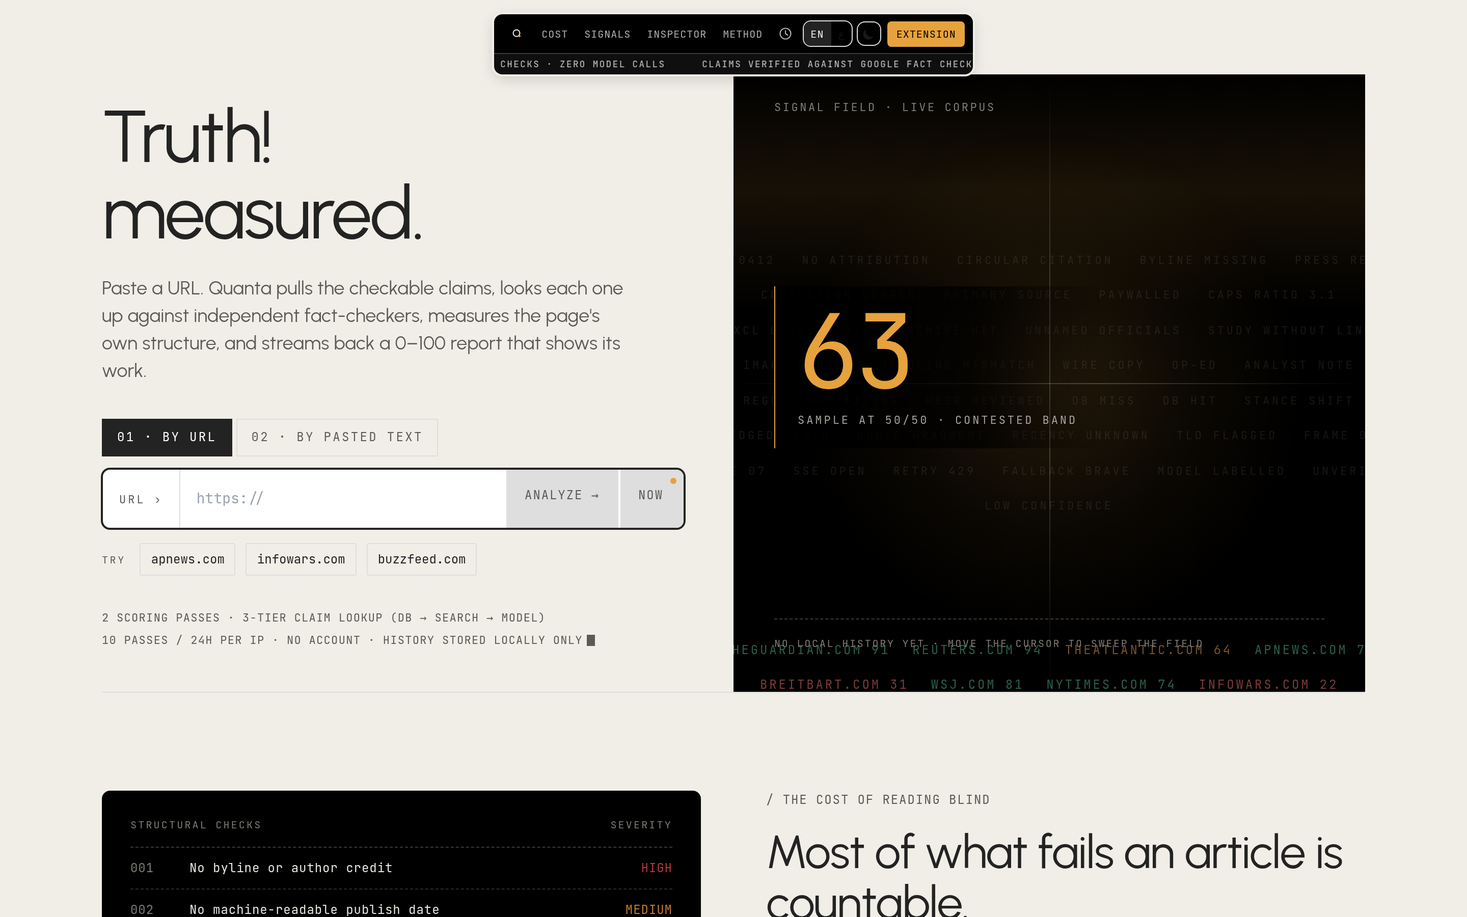
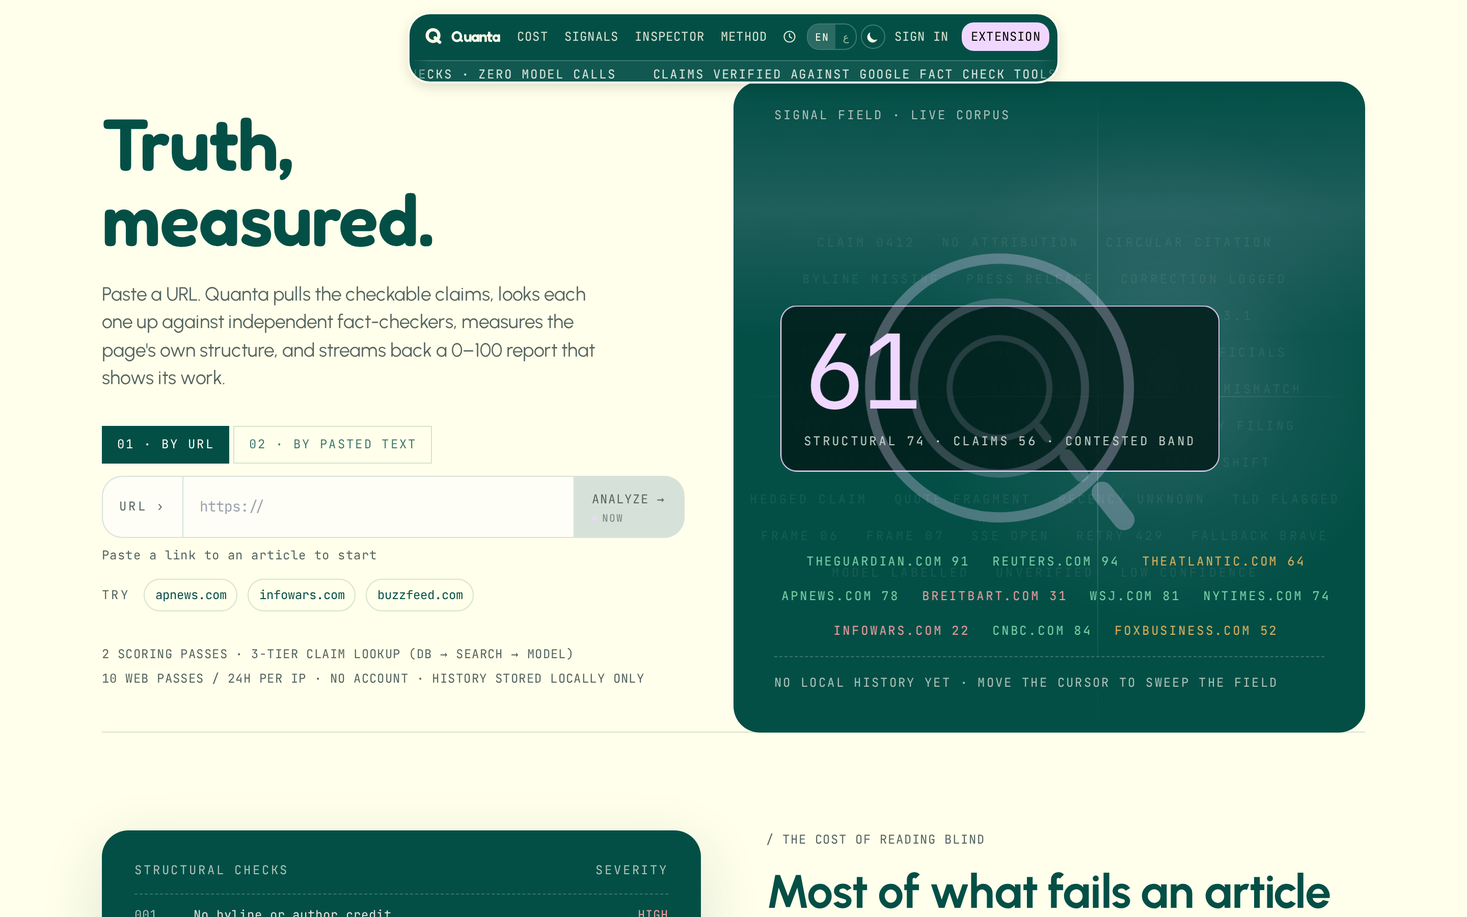
Fix the account dropdown, add profile settings, refresh the README
The nav's account menu rendered but was invisible: the pill's rounded
corners need overflow:hidden and the row needs overflow-x:auto for mobile
scrolling, and either one alone clips a popover that pops out past the
pill's own small height. Portals it to document.body instead, positioned
from the button's own bounding rect, which sidesteps both ancestors
instead of fighting them.

/account grows from a bare billing page into Billing / Preferences
(language) / Session (sign out), plus a member-since line.

The README still described the pre-accounts, pre-rebrand app — no auth,
no persistence, the old near-black palette. Brings it up to date with
the real Supabase + Lemon Squeezy stack, a regenerated hero screenshot,
and a corrected test count.

diff --git a/app/account/account-view.tsx b/app/account/account-view.tsx
@@ -1,15 +1,38 @@
 'use client'
 
 import { useState } from 'react'
+import { useTranslation } from '@/lib/i18n'
 
 interface AccountViewProps {
   email: string
   tier: 'free' | 'paid'
   subscriptionStatus: string | null
   renewsAt: string | null
+  createdAt: string
 }
 
-export function AccountView({ email, tier, subscriptionStatus, renewsAt }: AccountViewProps) {
+function Card({ label, children }: { label: string; children: React.ReactNode }) {
+  return (
+    <div style={{ border: '1px solid var(--ink)', background: 'var(--white)', marginTop: 24 }}>
+      <div style={{ padding: '12px 22px', borderBottom: '1px solid var(--ghost)' }}>
+        <span className="mono" style={{ fontSize: 10, letterSpacing: '0.16em', textTransform: 'uppercase', color: 'var(--grey)' }}>{label}</span>
+      </div>
+      {children}
+    </div>
+  )
+}
+
+function Row({ label, value }: { label: string; value: React.ReactNode }) {
+  return (
+    <div style={{ padding: '18px 22px', borderBottom: '1px solid var(--ghost)', display: 'flex', justifyContent: 'space-between', alignItems: 'baseline', gap: 16 }}>
+      <span className="mono" style={{ fontSize: 10, letterSpacing: '0.14em', textTransform: 'uppercase', color: 'var(--grey)', flexShrink: 0 }}>{label}</span>
+      <span style={{ fontSize: 14, color: 'var(--ink)', textAlign: 'right' }}>{value}</span>
+    </div>
+  )
+}
+
+export function AccountView({ email, tier, subscriptionStatus, renewsAt, createdAt }: AccountViewProps) {
+  const { language, setLanguage } = useTranslation()
   const [busy, setBusy] = useState(false)
 
   const upgrade = async () => {
@@ -34,27 +57,22 @@ export function AccountView({ email, tier, subscriptionStatus, renewsAt }: Accou
         <div style={{ fontFamily: 'var(--mono)', fontSize: 11, letterSpacing: '0.16em', textTransform: 'uppercase', color: 'var(--grey)', marginBottom: 8 }}>
           Account
         </div>
-        <h1 style={{ fontFamily: 'var(--sans)', fontWeight: 400, fontSize: 32, margin: '0 0 28px', color: 'var(--ink)' }}>
+        <h1 style={{ fontFamily: 'var(--sans)', fontWeight: 400, fontSize: 32, margin: '0 0 4px', color: 'var(--ink)', wordBreak: 'break-all' }}>
           {email}
         </h1>
+        <div className="mono" style={{ fontSize: 12, color: 'var(--grey)' }}>
+          Member since {new Date(createdAt).toLocaleDateString(undefined, { year: 'numeric', month: 'long' })}
+        </div>
 
-        <div style={{ border: '1px solid var(--ink)', background: 'var(--white)' }}>
-          <div style={{ padding: '18px 22px', borderBottom: '1px solid var(--ghost)', display: 'flex', justifyContent: 'space-between', alignItems: 'baseline' }}>
-            <span className="mono" style={{ fontSize: 10, letterSpacing: '0.14em', textTransform: 'uppercase', color: 'var(--grey)' }}>Plan</span>
+        <Card label="Billing">
+          <Row label="Plan" value={
             <span className="mono" style={{ fontSize: 14, letterSpacing: '0.08em', textTransform: 'uppercase', color: tier === 'paid' ? 'var(--verified)' : 'var(--ink)' }}>
               {tier === 'paid' ? 'Paid' : 'Free'}
             </span>
-          </div>
-
+          } />
           {tier === 'paid' && subscriptionStatus && (
-            <div style={{ padding: '18px 22px', borderBottom: '1px solid var(--ghost)', display: 'flex', justifyContent: 'space-between', alignItems: 'baseline' }}>
-              <span className="mono" style={{ fontSize: 10, letterSpacing: '0.14em', textTransform: 'uppercase', color: 'var(--grey)' }}>Status</span>
-              <span style={{ fontSize: 14, color: 'var(--ink)' }}>
-                {subscriptionStatus}{renewsAt ? ` · renews ${new Date(renewsAt).toLocaleDateString()}` : ''}
-              </span>
-            </div>
+            <Row label="Status" value={`${subscriptionStatus}${renewsAt ? ` · renews ${new Date(renewsAt).toLocaleDateString()}` : ''}`} />
           )}
-
           <div style={{ padding: 22 }}>
             {tier === 'paid' ? (
               <button
@@ -76,9 +94,46 @@ export function AccountView({ email, tier, subscriptionStatus, renewsAt }: Accou
               </button>
             )}
           </div>
-        </div>
+        </Card>
 
-        <a href="/" style={{ display: 'inline-block', marginTop: 20, fontFamily: 'var(--mono)', fontSize: 11, letterSpacing: '0.1em', textTransform: 'uppercase', color: 'var(--grey)' }}>
+        <Card label="Preferences">
+          <div style={{ padding: 22, display: 'flex', justifyContent: 'space-between', alignItems: 'center' }}>
+            <span className="mono" style={{ fontSize: 10, letterSpacing: '0.14em', textTransform: 'uppercase', color: 'var(--grey)' }}>Language</span>
+            <div style={{ display: 'inline-flex', border: '1px solid var(--ghost)', borderRadius: 8, overflow: 'hidden' }}>
+              {(['en', 'ar'] as const).map(code => (
+                <button
+                  key={code}
+                  onClick={() => setLanguage(code)}
+                  aria-pressed={language === code}
+                  className="mono"
+                  style={{
+                    padding: '8px 14px', fontSize: 12, letterSpacing: '0.06em', cursor: 'pointer', border: 0,
+                    background: language === code ? 'var(--ink)' : 'transparent',
+                    color: language === code ? 'var(--paper)' : 'var(--ink)',
+                  }}
+                >
+                  {code === 'en' ? 'English' : 'العربية'}
+                </button>
+              ))}
+            </div>
+          </div>
+        </Card>
+
+        <Card label="Session">
+          <div style={{ padding: 22 }}>
+            <form action="/auth/sign-out" method="post">
+              <button
+                type="submit"
+                className="mono"
+                style={{ width: '100%', padding: '12px', fontSize: 12, letterSpacing: '0.1em', textTransform: 'uppercase', background: 'transparent', color: 'var(--unsupported)', border: '1px solid var(--unsupported)', cursor: 'pointer' }}
+              >
+                Sign out
+              </button>
+            </form>
+          </div>
+        </Card>
+
+        <a href="/" style={{ display: 'inline-block', marginTop: 24, fontFamily: 'var(--mono)', fontSize: 11, letterSpacing: '0.1em', textTransform: 'uppercase', color: 'var(--grey)' }}>
           ← Back to Quanta
         </a>
       </div>

diff --git a/components/QuantaSections.tsx b/components/QuantaSections.tsx
@@ -1,6 +1,7 @@
 'use client'
 
-import { useState } from 'react'
+import { useLayoutEffect, useRef, useState } from 'react'
+import { createPortal } from 'react-dom'
 import { useTranslation } from '@/lib/i18n'
 import { useAuth } from '@/lib/supabase/auth-context'
 import { ThemeToggle } from '@/components/ThemeToggle'
@@ -118,6 +119,30 @@ function AccountMenu() {
   const { t } = useTranslation()
   const { user, profile, loading } = useAuth()
   const [open, setOpen] = useState(false)
+  const btnRef = useRef<HTMLButtonElement>(null)
+  const [pos, setPos] = useState<{ top: number; right: number } | null>(null)
+
+  // The dropdown can't be a plain absolutely-positioned child of the button —
+  // the nav pill clips to its rounded corners (overflow:hidden, needed for
+  // the ticker) and the row itself is overflow-x:auto (needed so it scrolls
+  // instead of forcing the whole pill wide on a phone), and either one alone
+  // clips anything that pops out past the pill's own small height. Portaling
+  // to <body> with position:fixed, positioned from the button's own rect,
+  // sidesteps every ancestor's overflow instead of fighting them.
+  useLayoutEffect(() => {
+    if (!open || !btnRef.current) return
+    const update = () => {
+      const rect = btnRef.current!.getBoundingClientRect()
+      setPos({ top: rect.bottom + 8, right: window.innerWidth - rect.right })
+    }
+    update()
+    window.addEventListener('resize', update)
+    window.addEventListener('scroll', update, true)
+    return () => {
+      window.removeEventListener('resize', update)
+      window.removeEventListener('scroll', update, true)
+    }
+  }, [open])
 
   if (loading) return <div style={{ width: 26, height: 26 }} />
 
@@ -138,6 +163,7 @@ function AccountMenu() {
   return (
     <div style={{ position: 'relative' }}>
       <button
+        ref={btnRef}
         onClick={() => setOpen(o => !o)}
         title={profile?.email ?? user.email ?? undefined}
         aria-label={profile?.email ?? user.email ?? t('nav.account')}
@@ -151,11 +177,11 @@ function AccountMenu() {
       >
         {initial}
       </button>
-      {open && (
+      {open && pos && typeof document !== 'undefined' && createPortal(
         <>
           <div onClick={() => setOpen(false)} style={{ position: 'fixed', inset: 0, zIndex: 60 }} />
-          <div style={{
-            position: 'absolute', top: 32, right: 0, zIndex: 61, minWidth: 180,
+          <div className="q-on-deep" style={{
+            position: 'fixed', top: pos.top, right: pos.right, zIndex: 61, minWidth: 180,
             background: 'var(--deep)', border: '1px solid rgba(255,255,255,0.18)', borderRadius: 16,
             boxShadow: '0 10px 30px rgba(0,0,0,0.32)', overflow: 'hidden',
           }}>
@@ -188,7 +214,8 @@ function AccountMenu() {
               </button>
             </form>
           </div>
-        </>
+        </>,
+        document.body
       )}
     </div>
   )

diff --git a/app/account/page.tsx b/app/account/page.tsx
@@ -16,5 +16,13 @@ export default async function AccountPage() {
     .eq('id', user.id)
     .single()
 
-  return <AccountView email={profile?.email ?? user.email ?? ''} tier={profile?.tier ?? 'free'} subscriptionStatus={profile?.subscription_status ?? null} renewsAt={profile?.subscription_renews_at ?? null} />
+  return (
+    <AccountView
+      email={profile?.email ?? user.email ?? ''}
+      tier={profile?.tier ?? 'free'}
+      subscriptionStatus={profile?.subscription_status ?? null}
+      renewsAt={profile?.subscription_renews_at ?? null}
+      createdAt={user.created_at}
+    />
+  )
 }

diff --git a/README.md b/README.md
@@ -13,6 +13,8 @@
 ![Next.js](https://img.shields.io/badge/Next.js_14-000?style=flat-square&logo=next.js&logoColor=white)
 ![TypeScript](https://img.shields.io/badge/TypeScript_5-3178C6?style=flat-square&logo=typescript&logoColor=white)
 ![React](https://img.shields.io/badge/React_18-149ECA?style=flat-square&logo=react&logoColor=white)
+![Supabase](https://img.shields.io/badge/Supabase-3FCF8E?style=flat-square&logo=supabase&logoColor=white)
+![Lemon Squeezy](https://img.shields.io/badge/Lemon_Squeezy-FFC233?style=flat-square&logo=lemonsqueezy&logoColor=black)
 ![Chrome MV3](https://img.shields.io/badge/Chrome_MV3-4285F4?style=flat-square&logo=googlechrome&logoColor=white)
 ![Vitest](https://img.shields.io/badge/Vitest-6E9F18?style=flat-square&logo=vitest&logoColor=white)
 ![License](https://img.shields.io/badge/License-MIT-black?style=flat-square)
@@ -23,7 +25,7 @@
 
 ![The Quanta home screen — URL input beside a cursor-tracked signal field](docs/screenshots/app-input.png)
 
-<div align="center"><sub>Instrument v2: a mono-and-dark-panel redesign. The right-hand panel is a real thing, not decoration — move the cursor and it samples a reading; the numbers streaming past it are the same illustrative vocabulary as the "Try" links below the input, not live telemetry.</sub></div>
+<div align="center"><sub>Soft rebrand: cream, dark teal and lilac, with a fluffy Fredoka wordmark. The right-hand panel is a real thing, not decoration — move the cursor and it samples a reading, and the structural/claims sub-scores it prints are computed from the same 0.3/0.7 formula the report uses, not made up. The numbers streaming past it are the same illustrative vocabulary as the "Try" links below the input, not live telemetry.</sub></div>
 
 ---
 
@@ -47,7 +49,7 @@ The score is arithmetic over those verdicts, not a vibe. You can read the formul
 
 ### 1 · Paste a URL or the article text
 
-The nav's history button opens the archive — every pass you've run, kept in `localStorage`, no account needed. It never leaves the browser.
+The nav's history button opens the archive — every pass you've run. No account needed; it's kept in `localStorage` and never leaves the browser. Sign in and the same archive moves server-side instead, so it follows you across devices — see [Accounts & billing](#accounts--billing).
 
 ### 2 · Watch it think
 
@@ -79,7 +81,7 @@ The claim ledger is an accordion, not a card grid — click a row and it opens i
 
 ### 6 · In the dark
 
-The whole interface is painted from CSS custom properties, so dark mode is a token swap in one stylesheet rather than a second set of components — including the fixed near-black instrument panels (nav, claim ledger), which stay pure black in *both* themes on purpose. This run also shows a real fact-check database hit: USA Today rated the headline Apollo 11 claim "Missing Context," which is why it's marked `MISLEADING` instead of the model's own assessment.
+The whole interface is painted from CSS custom properties, so dark mode is a token swap in one stylesheet rather than a second set of components — including the fixed dark-teal instrument panels (nav, claim ledger), which stay a "hardware panel" surface in *both* themes on purpose while everything else — paper, ink, the accent color itself — flips. This run also shows a real fact-check database hit: USA Today rated the headline Apollo 11 claim "Missing Context," which is why it's marked `MISLEADING` instead of the model's own assessment.
 
 ![The report in dark mode, with a real fact-check-database match](docs/screenshots/report-dark.png)
 
@@ -107,6 +109,18 @@ Same engine, measured against whatever tab you're on. Mozilla **Readability** ex
 <td align="center"><sub><b>Report</b> — score, breakdown, signals, red flags</sub></td>
 </tr>
 </table>
+
+---
+
+## Accounts & billing
+
+Signing in is optional — every feature above works anonymously, rate-limited by IP. An account (Supabase auth, email + password) adds:
+
+- **Server-side history.** [`lib/history.ts`](lib/history.ts) is dual-mode: signed in and Supabase configured → reads and writes a Postgres `analyses` table, row-level-security-scoped to the caller regardless of what the client claims. Signed out, or Supabase not configured → the same `localStorage` behavior the app always had. No regression for anonymous use, no second data model to keep in sync.
+- **A real paid tier.** `resolveTier()` in the API route reads `profiles.tier` for the signed-in user instead of trusting anything the client sends. **Lemon Squeezy** checkout and a signature-verified webhook ([`app/api/webhooks/lemonsqueezy/route.ts`](app/api/webhooks/lemonsqueezy/route.ts)) keep that column in sync with the actual subscription — the Supabase user id rides along as `custom_data.user_id` on the checkout and comes back on every later webhook event, so Lemon Squeezy never needs to know anything about the account system.
+- **`/account`** — plan and subscription status, a link into the Lemon Squeezy billing portal, a language preference, and sign-out.
+
+Missing configuration degrades the same way every other integration in this project does: no Supabase → `resolveTier()` returns `paid` for everyone and history stays local; no Lemon Squeezy keys → checkout responds `503` instead of taking the page down.
 
 ---
 
@@ -161,18 +175,24 @@ Structural weight is deliberately low: a well-formatted lie should not outscore 
 ## Architecture
 
 ```
-app/api/analyze/route.ts   SSE endpoint · CORS · rate limit · scrape → stream
-lib/urlGuard.ts             SSRF guard on scraped URLs        (blocks private/link-local, re-checks redirects)
-lib/structural.ts          deterministic signals          (no network)
-lib/groq.ts                shared LLM client              (retry, fence + JSON recovery)
-lib/claims.ts               claim extraction               (Groq)
-lib/factcheck.ts           Google Fact Check → Brave      (graceful null on miss)
-lib/analyze.ts              async generator orchestrating the passes
-lib/synthesize.ts          last-resort model assessment   (Groq, never throws)
-lib/errorMessages.ts        API error code → translated copy
-lib/sourceDatabase.ts      32 outlets: score, lean, record
-components/                report UI · claim ledger · history drawer · marketing
-extension/                 MV3: content script · service worker · popup
+app/api/analyze/route.ts           SSE endpoint · CORS · rate limit · scrape → stream
+app/api/checkout/route.ts          Lemon Squeezy checkout · Supabase user id round-trips via custom_data
+app/api/billing-portal/route.ts    Lemon Squeezy customer-portal link
+app/api/webhooks/lemonsqueezy/     signature-verified subscription sync → profiles.tier
+app/account/, app/auth/            account settings · sign-in/up · callback · sign-out
+lib/supabase/                      client · server · admin clients · RLS-scoped auth context
+lib/urlGuard.ts                    SSRF guard on scraped URLs     (blocks private/link-local, re-checks redirects)
+lib/structural.ts                  deterministic signals          (no network)
+lib/groq.ts                        shared LLM client              (retry, fence + JSON recovery)
+lib/claims.ts                      claim extraction               (Groq)
+lib/factcheck.ts                   Google Fact Check → Brave      (graceful null on miss)
+lib/analyze.ts                     async generator orchestrating the passes
+lib/synthesize.ts                  last-resort model assessment   (Groq, never throws)
+lib/errorMessages.ts               API error code → translated copy
+lib/sourceDatabase.ts              32 outlets: score, lean, record
+lib/history.ts                     dual-mode: Postgres (signed in) ↔ localStorage (anonymous)
+components/                        report UI · claim ledger · history drawer · marketing
+extension/                         MV3: content script · service worker · popup
 ```
 
 Each of `structural`, `claims`, `factcheck` and `synthesize` is a pure module with one job, and `analyze.ts` is an `AsyncGenerator` that yields typed frames — which is why the same engine drives the web UI and the extension without a second code path.
@@ -214,6 +234,8 @@ The long-lived `chrome.runtime.Port` lives in the service worker on purpose: MV3
 - **The quota is refunded when the work never happened.** Validation runs before a slot is claimed; the scrape runs after, and a dead link or a paywall hands the slot back rather than costing one of three daily analyses.
 - **Errors carry a code, not a stack.** Failures travel as a typed `code` plus a fallback sentence; each client renders its own translated copy, and internal strings never reach the screen.
 - **The LLM provider is one constant, not a scattered assumption.** When Groq retired `llama-3.3-70b-versatile` from its catalog mid-project, every call site kept working off one swap in `lib/groq.ts` — including the `reasoning_effort` tuning the replacement model needs to keep its chain-of-thought from eating the whole token budget before emitting an answer.
+- **The webhook verifies signature before anything else touches the body.** Lemon Squeezy's `X-Signature` header is checked against the raw request bytes with `timingSafeEqual`, not `===` — a naive comparison leaks how many leading bytes an attacker's guess got right, one request at a time.
+- **An inline style always outranks an external stylesheet rule of equal selector weight, media query or not.** This defeated a focus ring and a responsive layout rule twice in the same audit pass before the fix moved the property in question into CSS itself instead of trying to override it from further down the cascade.
 
 ---
 
@@ -222,9 +244,10 @@ The long-lived `chrome.runtime.Port` lives in the service worker on purpose: MV3
 - **Rate limiting** — every request: 3 analyses per 24h per extension install, 10 per 24h per IP, backed by Upstash Redis with an in-memory fallback
 - **Dark mode** — a full token palette, a toggle in the nav, and a pre-paint script so the theme never flashes
 - **English + Arabic** — message catalogues with a language selector, a persisted choice, and `lang`/`dir` on the document root
-- **Local history** — version-guarded, so reports written by the previous scoring engine are discarded rather than mis-rendered
+- **History** — server-side and cross-device for signed-in users, `localStorage` otherwise; either way it's version-guarded, so reports written by a previous scoring engine are discarded rather than mis-rendered
+- **Accounts & billing** — Supabase auth, Postgres profiles behind row-level security, Lemon Squeezy checkout and a signature-verified webhook — see [Accounts & billing](#accounts--billing)
 - **SEO** — OG image, `sitemap.ts`, `robots.ts`, full Open Graph and Twitter metadata
-- **Tests** — 112 Vitest cases: the analysis generator (free/paid frames, verdict scoring, missing-key failure), the Groq client (retry on 429 and network error, no retry on 4xx, fence stripping, JSON recovery), structural scoring, verdict normalisation, the SSRF guard, the scraper, and the route end to end (validation, streaming, rate-limit buckets, quota refunds)
+- **Tests** — 141 Vitest cases across 9 files: the analysis generator (free/paid frames, verdict scoring, missing-key failure), the Groq client (retry on 429 and network error, no retry on 4xx, fence stripping, JSON recovery), structural scoring, verdict normalisation, the SSRF guard, the scraper, history's dual-mode read/write path, the Lemon Squeezy webhook (signature verification, status mapping, missing-user-id handling), and the analyze route end to end (validation, streaming, rate-limit buckets, quota refunds)
 
 ---
 
@@ -244,6 +267,9 @@ npm run check                        # typecheck + lint + test
 | `GOOGLE_FACT_CHECK_API_KEY` | grounded verdicts w/ publisher links | falls through to Brave |
 | `BRAVE_SEARCH_API_KEY` | fallback fact-check search | falls through to the model |
 | `UPSTASH_REDIS_REST_URL` / `_TOKEN` | rate limits that survive a deploy | in-memory `Map` |
+| `NEXT_PUBLIC_SUPABASE_URL` / `_ANON_KEY` | accounts, server-side history | signed-out everywhere; `resolveTier()` returns `paid` for all traffic |
+| `SUPABASE_SERVICE_ROLE_KEY` | webhook writes to `profiles` (bypasses RLS — server-only, never `NEXT_PUBLIC_`) | webhook can't update subscription status |
+| `LEMONSQUEEZY_API_KEY` / `_STORE_ID` / `_VARIANT_ID` / `_WEBHOOK_SECRET` | checkout + subscription sync | `/api/checkout` returns `503` |
 
 ### Extension
 
@@ -259,17 +285,17 @@ Load `extension/dist` at `chrome://extensions` with Developer Mode on. To point 
 
 This is a working prototype, not a finished product. Where it falls short:
 
-- **There is still no auth.** The tier is now decided server-side in `resolveTier()` instead of being read off the request body, but that function returns `paid` for everyone — the rate limit, not a subscription, is what bounds usage.
+- **Auth is real but minimal.** Email + password via Supabase, no OAuth providers, no self-service account deletion, no password-reset UI beyond Supabase's default email template. `resolveTier()` reads `profiles.tier` server-side rather than trusting the client, but if Supabase isn't configured at all it falls back to `paid` for everyone — the rate limit, not a subscription, is what bounds an unconfigured deployment.
 - **The score is uncalibrated.** The weights are reasoned, not fitted. The low-score example above shows why that matters in practice: four structural red flags still landed at a 68 overall, because the claims pass declined to confidently call anything false. That is the system working as designed — but "as designed" still isn't "validated against a labelled set," which is what it would take before anyone treats the number as authoritative.
 - **The source database is a hand-curated file.** 32 outlets, no update mechanism.
-- **No persistence.** History is `localStorage`; clearing the browser clears the record.
+- **Anonymous history is still `localStorage`.** Signing in gets you server-side, cross-device history; skip that and clearing the browser still clears the record, same as before accounts existed.
 - **Scraping fails on hard targets.** Paywalls, heavy JS, bot protection.
 - **The marketing landing page uses illustrative figures**, not live product metrics.
 - **Quanta is a reading aid, not an oracle.** It is at its most useful when it disagrees with your first instinct and shows you why.
 
 ## Roadmap
 
-`Auth + real tier gating` · `Server-side history and shareable report URLs` · `Calibration against a labelled set` · `Firefox / Safari builds` · `Error tracking` · `Public API`
+`Shareable report URLs` · `OAuth providers + self-service account deletion` · `Calibration against a labelled set` · `Firefox / Safari builds` · `Error tracking` · `Public API`
 
 ---
 
